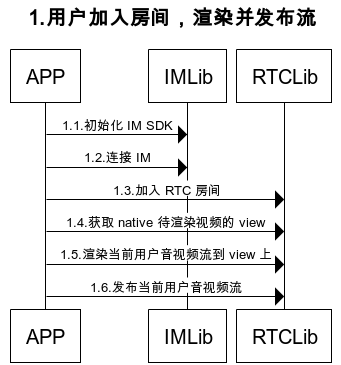
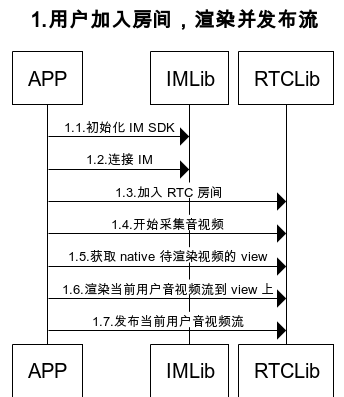
问题:增加纯音频模式的文档 原因: 解决方案: Reviewer: 工单号: Log: X

diff --git a/doc/AUDIO_ONLY.md b/doc/AUDIO_ONLY.md
@@ -1,0 +1,115 @@
+# 纯音频模式处理流程
+
+纯音频模式与音视频模式相比，需要特殊处理的地方如下
+
+```
+1.提前关闭摄像头
+2.不获取 native 的视频 view，不渲染视频
+```
+详细可以参考下面的流程与接口
+
+## 1.用户加入房间，渲染并发布流的处理过程
+
+![](../images/app_audio_rtc1.png)
+
+## 2.渲染已经在房间的远端用户的处理过程
+
+![](../images/app_audio_rtc2.png)
+
+## 3.渲染后续进入房间的远端用户的处理过程
+
+![](../images/app_audio_rtc3.png)
+
+# 纯音频模式接口说明
+
+## 1.用户加入房间，渲染并发布流
+
+### 1.1.初始化 IM SDK
+
+```
+RongcloudImPlugin.init(RongAppKey);
+```
+
+### 1.2.连接 IM
+
+```
+int rc = await RongcloudImPlugin.connect(IMToken);
+print("连接 im " + rc.toString());
+```
+
+### 1.3.关闭摄像头
+
+```
+RongRTCConfig conf = RongRTCConfig.defaultConfig();
+// 关闭摄像头则只会发布音频
+conf.cameraEnable = false;
+RongRTCEngine.config(conf);
+```
+
+### 1.4.加入 RTC 房间
+
+```
+RongRTCEngine.joinRTCRoom(this.roomId,(int code) {
+      
+});
+```
+
+### 1.5.开始采集音频
+
+```
+RongRTCEngine.startCapture();
+```
+
+### 1.6.发布当前用户音频流
+
+```
+RongRTCEngine.publishAVStream((int code) {
+
+});
+```
+
+## 2.渲染已经在房间的远端用户
+
+### 2.1.获取已经在房间里的远端用户列表
+
+```
+List userIds = await RongRTCEngine.getRemoteUsers(this.roomId);
+```
+
+### 2.2.订阅远端用户的音视频流
+如果有多人存在，需要循环订阅
+
+```
+RongRTCEngine.subscribeAVStream(userId,(int code) {
+      
+});
+```
+
+## 3.渲染后续进入房间的远端用户
+
+### 3.1.监听远端用户加入的回调
+
+`当用户加入的时候，不要做订阅渲染的处理`，因为此时该用户可能刚加入房间成功，但是尚未发布音视频流
+
+```
+RongRTCEngine.onUserJoined = (String userId) {
+    
+};
+```
+
+### 3.2.监听远端用户发布流的回调
+
+
+```
+RongRTCEngine.onUserStreamPublished = (String userId) {
+  
+};
+```
+
+### 3.3.远端用户发布流成功，则通过 userId 订阅该用户的音视频流
+
+```
+RongRTCEngine.subscribeAVStream(userId,(int code) {
+      
+});
+```

diff --git a/README.md b/README.md
@@ -66,7 +66,7 @@ Android 需要在 AndroidManifest.xml 文件中声明对相机和麦克风的权
 
 `如图 RTC 依赖于 IM 发送信令`
 
-# 处理流程
+# 音视频模式处理流程
 
 ## 1.用户加入房间，渲染并发布流的处理过程
 
@@ -80,7 +80,7 @@ Android 需要在 AndroidManifest.xml 文件中声明对相机和麦克风的权
 
 ![](images/app_rtc3.png)
 
-# 接口说明
+# 音视频模式接口说明
 
 ## 1.用户加入房间，渲染并发布流
 
@@ -105,7 +105,13 @@ RongRTCEngine.joinRTCRoom(this.roomId,(int code) {
 });
 ```
 
-### 1.4.获取 native 待渲染视频的 view
+### 1.4.开始采集音视频
+
+```
+RongRTCEngine.startCapture();
+```
+
+### 1.5.获取 native 待渲染视频的 view
 
 ```
 Widget view = RongRTCEngine.createPlatformView(userId, 200, 300, (int viewId) {
@@ -114,13 +120,13 @@ Widget view = RongRTCEngine.createPlatformView(userId, 200, 300, (int viewId) {
 
 ```
 
-### 1.5.渲染当前用户音视频流到 view 上
+### 1.6.渲染当前用户音视频流到 view 上
 
 ```
 RongRTCEngine.renderLocalVideo(viewId);
 ```
 
-### 1.6.发布当前用户音视频流
+### 1.7.发布当前用户音视频流
 
 ```
 RongRTCEngine.publishAVStream((int code) {
@@ -205,7 +211,9 @@ Widget view = RongRTCEngine.createPlatformView(userId, 200, 300, (int viewId) {
 RongRTCEngine.renderRemoteVideo(userId, viewId,RongRTCVodioFillMode.Fill);
 ```
 
+# 纯音频模式处理流程
 
+如果只使用纯音频模式，请参考[此文档](doc/AUDIO_ONLY.md)
 
 ## 其他接口
 
